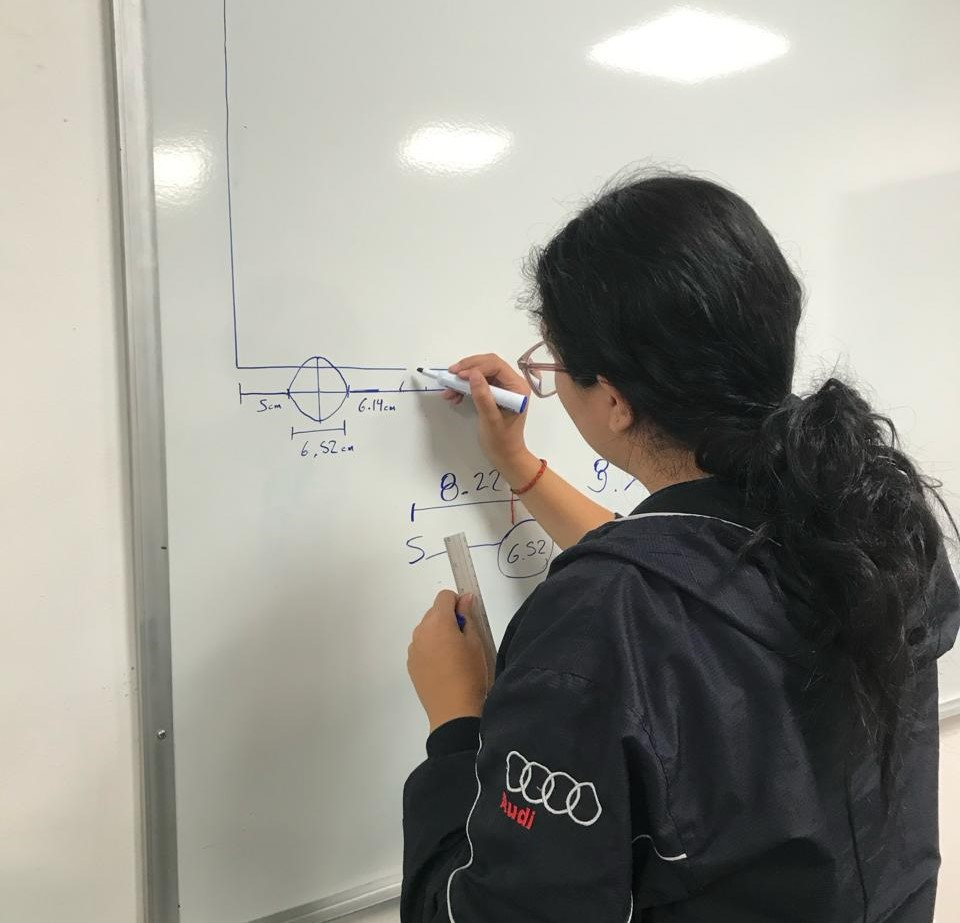
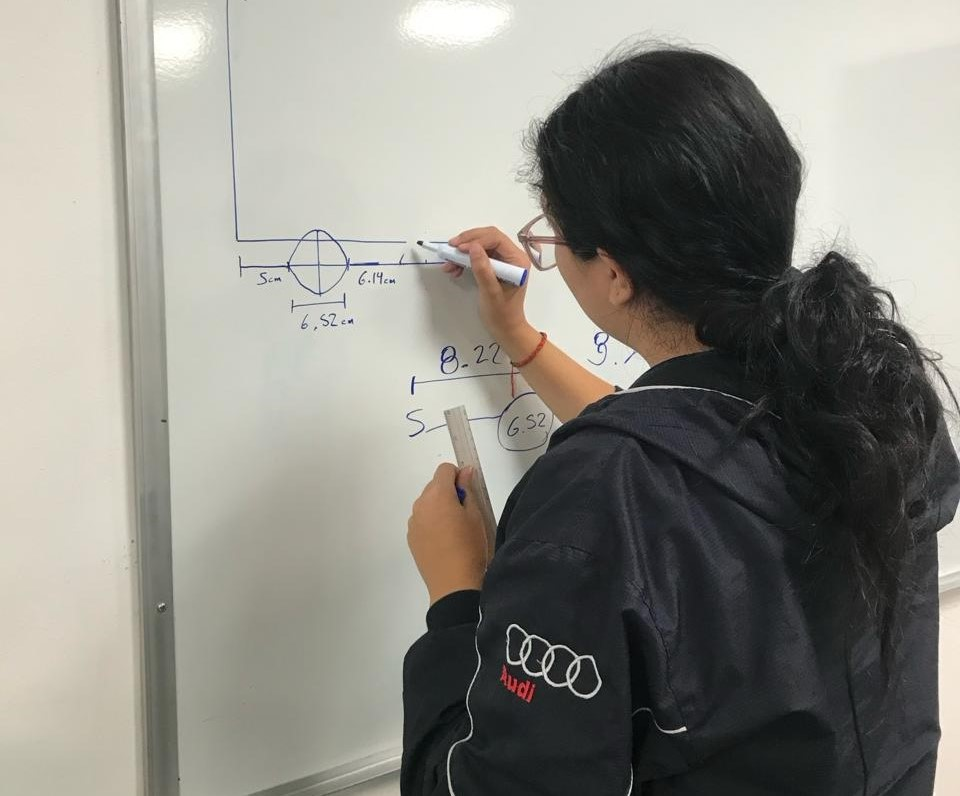
19 Enero

diff --git a/blog.html b/blog.html
@@ -135,9 +135,14 @@
             <td class="fecha">January 19, 2024</td>
         </tr>
         <tr>
-            <td>Description</td>
+            <td>We began with the approach of our new robot design, making measurements to meet the size specifications required for the competition, this being our first sketch for our second prototype.</td>
         </tr>
     </table>
+
+    <center>
+        <img src="images/PamDibujando.jpeg" width="350"/>
+        <img src="images/nuevoDiseño2.jpeg" width="350"/>
+    </center>
 
     <table class="tabla container">
         <tr>
